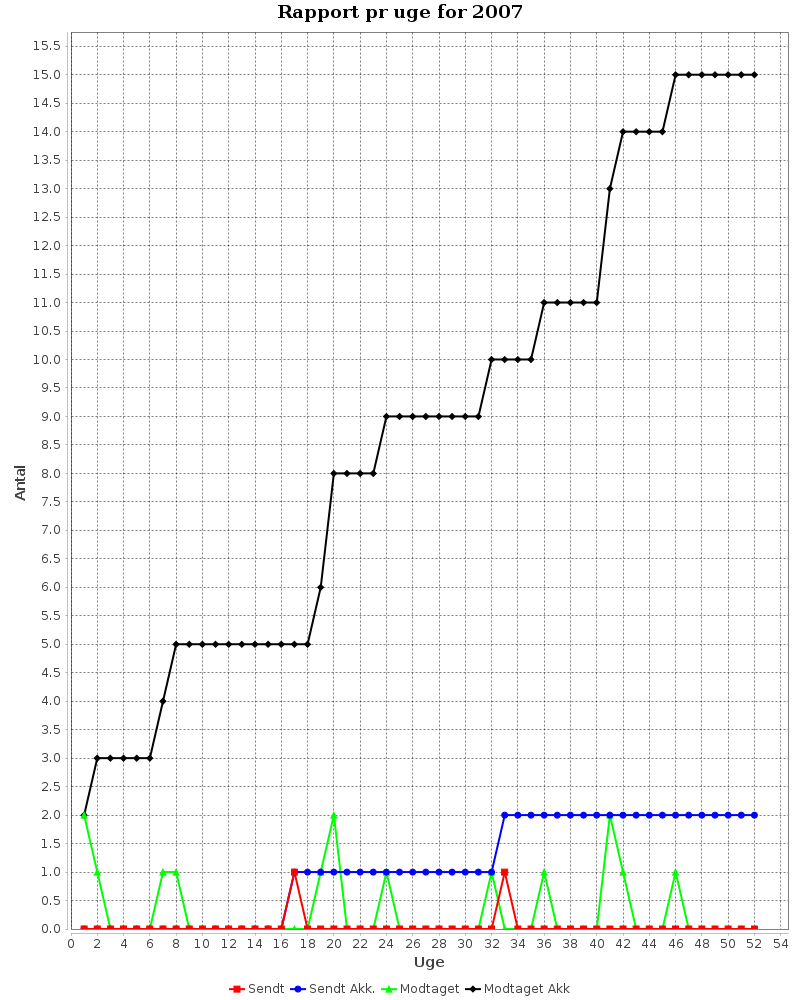
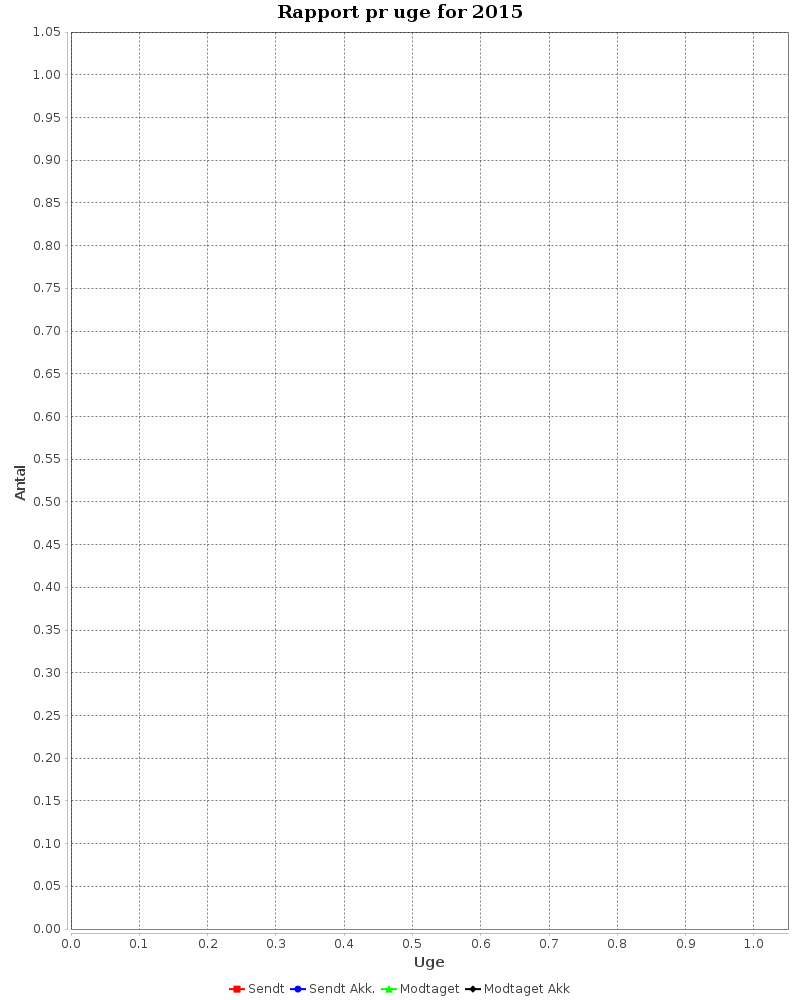
deployed on test

diff --git a/src/main/java/dk/magenta/webscripts/database/WeeklyStat.java b/src/main/java/dk/magenta/webscripts/database/WeeklyStat.java
@@ -40,24 +40,16 @@ public class WeeklyStat extends AbstractWebScript {
         Writer webScriptWriter = res.getWriter();
         JSONObject result = new JSONObject();
 
-        System.out.println("c.getContent()");
-        System.out.println(c.getContent());
-
-
         try {
             JSONObject json = new JSONObject(c.getContent());
 
             String method = JSONUtils.getString(json, "method");
-            System.out.println("method");
-            System.out.println(method);
-
             if (method.equals("spreadsheetA")) {
-                System.out.println("method: spreadSheetA");
+
 
                 String year = JSONUtils.getString(json, "year");
 
 //                NodeRef nodeRef = this.weeklyStatBean.createChartA(year);
-
                 NodeRef chartNodeRef = this.mailBean.doChart(year);
 
 

diff --git a/src/main/java/dk/magenta/beans/MailBean.java b/src/main/java/dk/magenta/beans/MailBean.java
@@ -737,9 +737,6 @@ public class MailBean {
         System.out.println("series.getItems().get(0)");
         System.out.println(series.getItems().get(0));
 
-
-        String requestYear = "2007";
-
         XYSeries sent = weeklyStatBean.getWeekNodesForYearChartSent(requestedYear);
         XYSeries sentAkk = weeklyStatBean.getWeekNodesForYearChartSentAkk(requestedYear);
 
@@ -820,6 +817,9 @@ public class MailBean {
 
             writer.setMimetype("image/png");
             writer.putContent(f);
+
+            System.out.println("havd er nodeRef på billede?");
+            System.out.println(childAssociationRef.getChildRef());
 
             return childAssociationRef.getChildRef();
 
